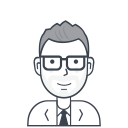
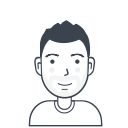
fixes

diff --git a/doneillspa/ClientApp/src/app/userdashboard/userdashboard.component.html b/doneillspa/ClientApp/src/app/userdashboard/userdashboard.component.html
@@ -22,7 +22,7 @@
   <div class="row">
     <div class="col-md-2">
       <div [class]="selectedUser.isEnabled ? 'card mb-3 mt-3 div-to-stand-out' : 'card mb-3 mt-3 div-to-stand-out bg-secondary'">
-        <img class="card-img-top" src="assets/images/user.png" alt="Card image cap">
+        <img *ngIf="selectedUser" class="card-img-top" src="assets/images/{{GetImageName()}}" alt="Card image cap">
         <div class="card-body">
           <h5 class="card-title">Details</h5>
           <p class="card-text">{{selectedUser.firstName | uppercase}} {{selectedUser.surname | uppercase}}</p>
@@ -49,14 +49,14 @@
                   <thead class="thead">
                     <tr>
                       <th>From Date</th>
-                      <th>Number Of Days</th>
+                      <th>Days</th>
                       <th>Status</th>
                       <th></th>
                     </tr>
                   </thead>
                   <tbody>
                     <tr *ngFor="let hol of selectedUsersHolidayRequests">
-                      <td>{{hol.fromDate | date : "fullDate"}}</td>
+                      <td>{{hol.fromDate | date : "mediumDate"}}</td>
                       <td>{{hol.days}}</td>
                       <td>{{hol.status}}</td>
                     </tr>
@@ -146,7 +146,7 @@
               <div class="row" *ngFor="let ts of retrieveTimesheetsForDisplay(); let i = index">
                 <div class="col-md-2">
                   <a [ngClass]="{'text-warning': ts.status == 'New', 'text-success': ts.status == 'Approved', 'text-primary': ts.status == 'Submitted', 'text-danger': ts.status == 'Rejected'}" data-toggle="collapse" href="#collapseExample{{i}}" role="button" attr.aria-expanded="false" attr.aria-controls="collapseExample{{i}}">
-                    {{ ts.weekStarting | date:'shortDate'}}
+                    {{ ts.weekStarting | date:'mediumDate'}}
                   </a>
                 </div>
                 <div class="col-md-10 collapse" id="collapseExample{{i}}">

diff --git a/doneillspa/ClientApp/src/app/userdashboard/userdashboard.component.ts b/doneillspa/ClientApp/src/app/userdashboard/userdashboard.component.ts
@@ -41,6 +41,7 @@ export class UserDashboardComponent {
   //public passwordReset: boolean = false;
   public loadingTimesheets: boolean = false;
   public resettingPassword: boolean = false;
+  public userImage: string = "user.png";
  
 
   public filterName: string;
@@ -90,6 +91,19 @@ export class UserDashboardComponent {
 
   showAddUser() {
     $("#myRegistrationModal").modal('show');
+  }
+
+  GetImageName() {
+    if (this.selectedUser) {
+      if (this.selectedUser.role == "Administrator") {
+        return "admin.png";
+      }
+      else {
+        return "user.png";
+      }
+    } else {
+      return "";
+    }
   }
 
   registerUser({ value, valid }: { value: UserRegistration, valid: boolean }) {
